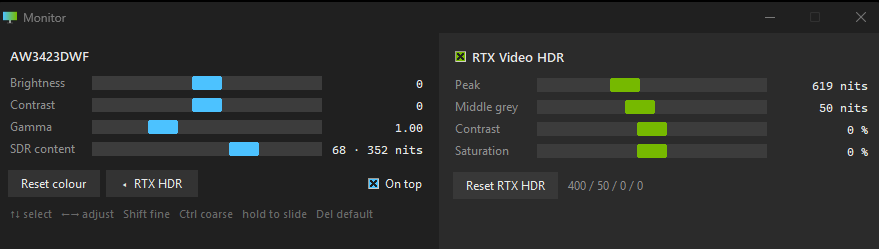
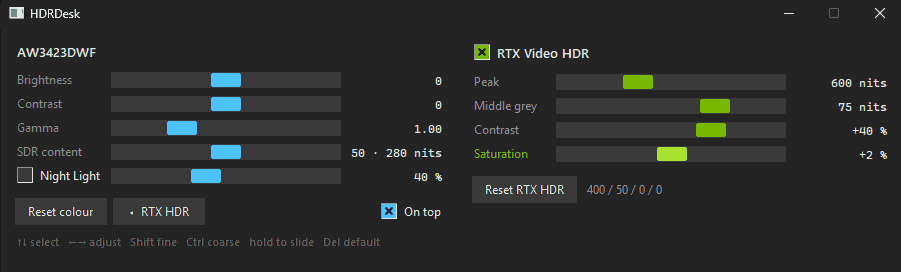
Document verified Night Light controls and update application screenshot

diff --git a/README.md b/README.md
@@ -1,10 +1,10 @@
 # HDRDesk
 
-**Live display and RTX Video HDR controls for Windows.**
+**Live display, Windows Night Light, and RTX Video HDR controls for Windows.**
 
-Adjust desktop brightness, contrast, gamma, Windows SDR content brightness, Windows Night Light, and NVIDIA RTX Video HDR from one compact, keyboard-friendly window. Keep the controls on top of the content you're watching and tune the image without navigating three separate settings interfaces.
+Adjust desktop brightness, contrast, gamma, Windows SDR content brightness, Windows Night Light, and NVIDIA RTX Video HDR from one compact, keyboard-friendly window. Keep the controls on top of the content you're watching and tune the image without navigating multiple settings interfaces.
 
-![HDRDesk with its RTX Video HDR panel expanded](docs/screenshot.png)
+![HDRDesk showing desktop colour controls, SDR content brightness, Windows Night Light, and RTX Video HDR controls](docs/screenshot.png)
 
 ## Features
 
@@ -50,7 +50,7 @@ For RTX Video HDR, enable Windows HDR on a compatible display, use a supported N
 | RTX contrast | −100% to +100% |
 | RTX saturation | −100% to +100% |
 
-Night Light warmth and enablement are independent: 0% is the coolest setting, **not** necessarily off. The slider below SDR content brightness reads the current user's native Windows Night Light settings and preserves its schedule. It is available with HDR on or off. Changes made in Windows Settings are reflected automatically. If Night Light's storage is unavailable or unrecognized, HDRDesk disables these controls without creating unknown registry records. This is an **undocumented Windows CloudStore interface**; codec tests are automated, but hardware behavior has not yet been confirmed on a live Windows machine.
+Night Light warmth and enablement are independent: 0% is the coolest setting, **not** necessarily off. The slider below SDR content brightness reads the current user's native Windows Night Light settings and preserves its schedule. It is available with HDR on or off. Changes made in Windows Settings are reflected automatically. If Night Light's storage is unavailable or unrecognized, HDRDesk disables these controls without creating unknown registry records. This is an **undocumented Windows CloudStore interface**. The Night Light control has passed automated codec tests and has been reported working on the Windows setup shown in the screenshot; behavior on other Windows versions and display configurations remains unverified.
 
 Desktop brightness and contrast here are software GPU LUT adjustments, not physical monitor brightness or OSD settings. The nit values are requested/reference levels, not measurements of physical panel luminance.
 
@@ -78,7 +78,7 @@ Developed and reported tested on:
 
 Other configurations have not been established by the supplied testing. The UI targets the primary display; independent multi-monitor control has not been implemented. Windows HDR must be enabled separately. RTX Video HDR is NVIDIA's **video** conversion feature, not RTX HDR for games.
 
-The Windows SDR-white setter and NVIDIA driver-private calls are undocumented. Driver or Windows updates may change their behavior. GPU gamma-ramp effects in HDR mode also depend on the display path; this is an interactive adjustment tool, not a colorimeter calibration application.
+The Windows SDR-white setter, Night Light CloudStore storage format, and NVIDIA driver-private calls are undocumented. Driver or Windows updates may change their behavior. GPU gamma-ramp effects in HDR mode also depend on the display path; this is an interactive adjustment tool, not a colorimeter calibration application.
 
 HDRDesk applies its saved desktop colour settings at launch and maintains the gamma ramp while running. This can conflict with other LUT loaders or calibration software. Closing the application does not automatically restore the original display settings.
 
@@ -146,7 +146,7 @@ The per-display scope is the captured scope, not a general multi-monitor targeti
 
 The self-test changes live settings and attempts to restore SDR and RTX values and a neutral gamma ramp; run it only when such changes are acceptable.
 
-The optional Frida tracing tools require a separate Frida installation and elevation; neither is needed to run HDRDesk. The screenshot shows the original window title.
+The optional Frida tracing tools require a separate Frida installation and elevation; neither is needed to run HDRDesk. The screenshot shows the current application window with Night Light controls beneath SDR content brightness.
 
 ## Project status
 
@@ -154,4 +154,4 @@ Experimental Windows utility. When reporting compatibility problems, include you
 
 ### Night Light technical reference
 
-HDRDesk uses the reverse-engineered [Windows Night Light CloudStore format](https://github.com/kvnxiao/win-nightlight-cli/blob/main/docs/nightlight-registry-format.md) (Windows 11, tested by the upstream research on builds 26100/26300). There is no supported public Windows API for controlling this strength slider. Registry binary edits preserve unrelated scheduling fields, but physical color application can differ across Windows builds and display paths.
+HDRDesk uses the reverse-engineered [Windows Night Light CloudStore format](https://github.com/kvnxiao/win-nightlight-cli/blob/main/docs/nightlight-registry-format.md) (Windows 11, tested by the upstream research on builds 26100/26300). There is no supported public Windows API for controlling this strength slider. Registry binary edits preserve unrelated scheduling fields. Native Night Light operation was confirmed in a user test on the depicted setup; other Windows builds and display paths still need validation.
